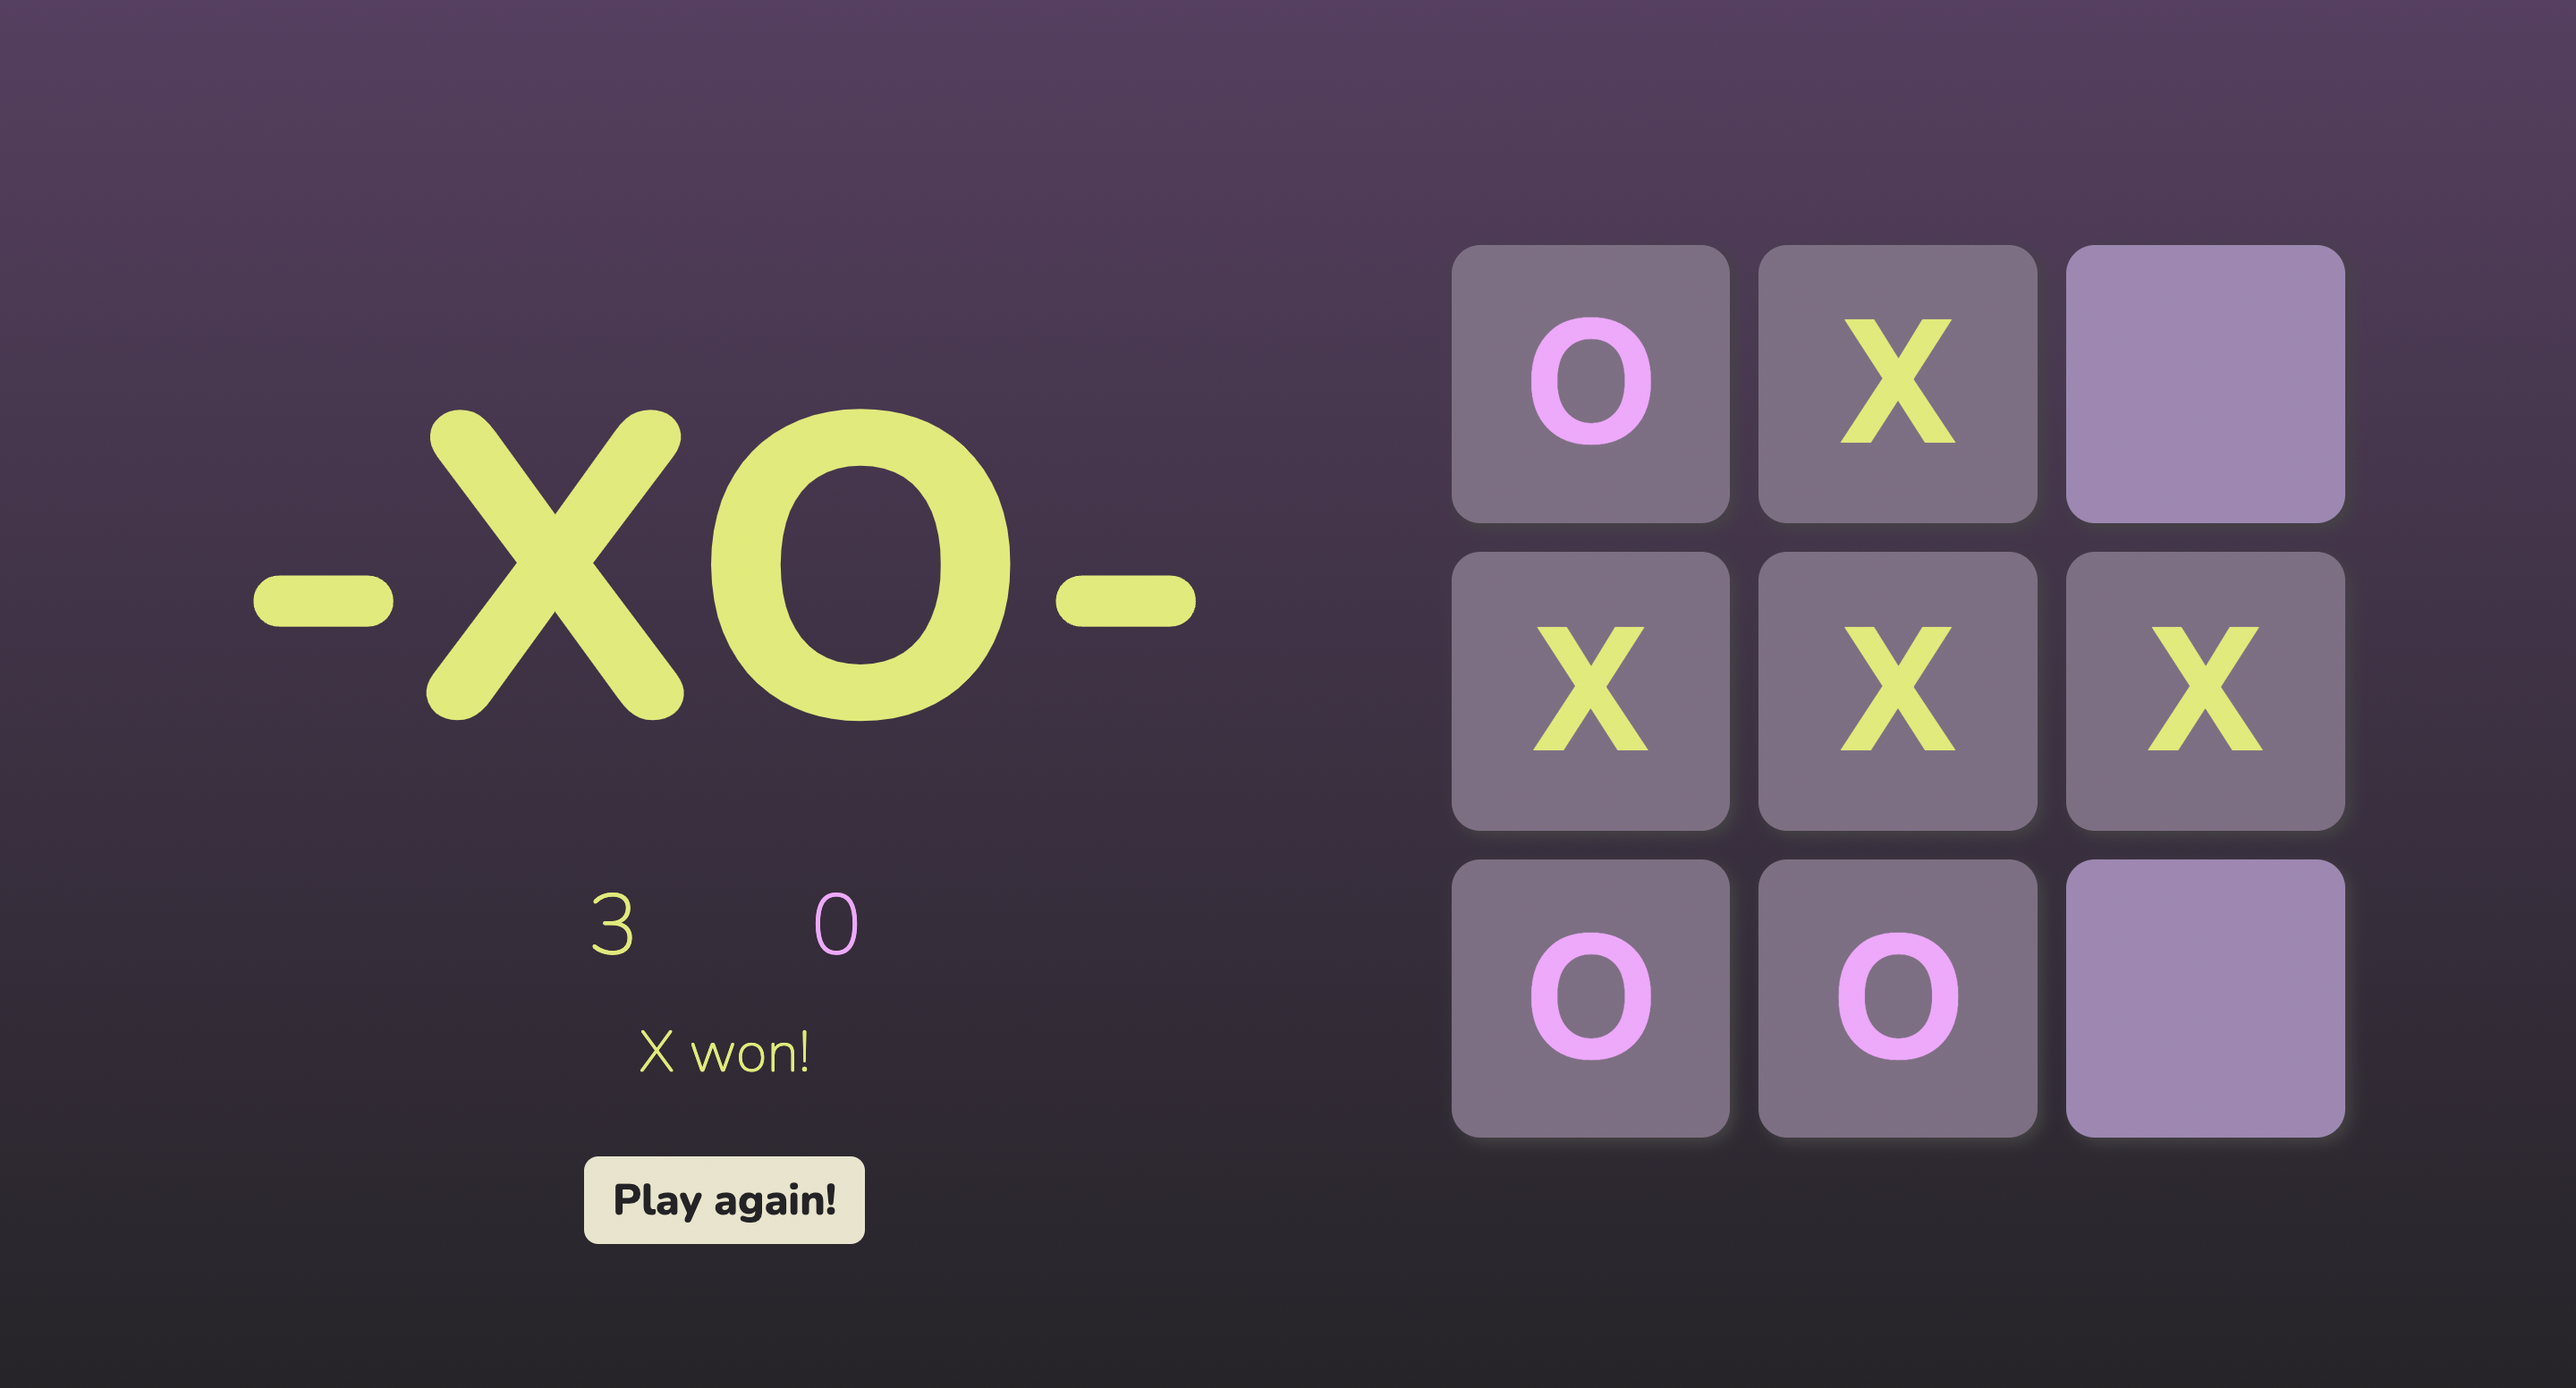
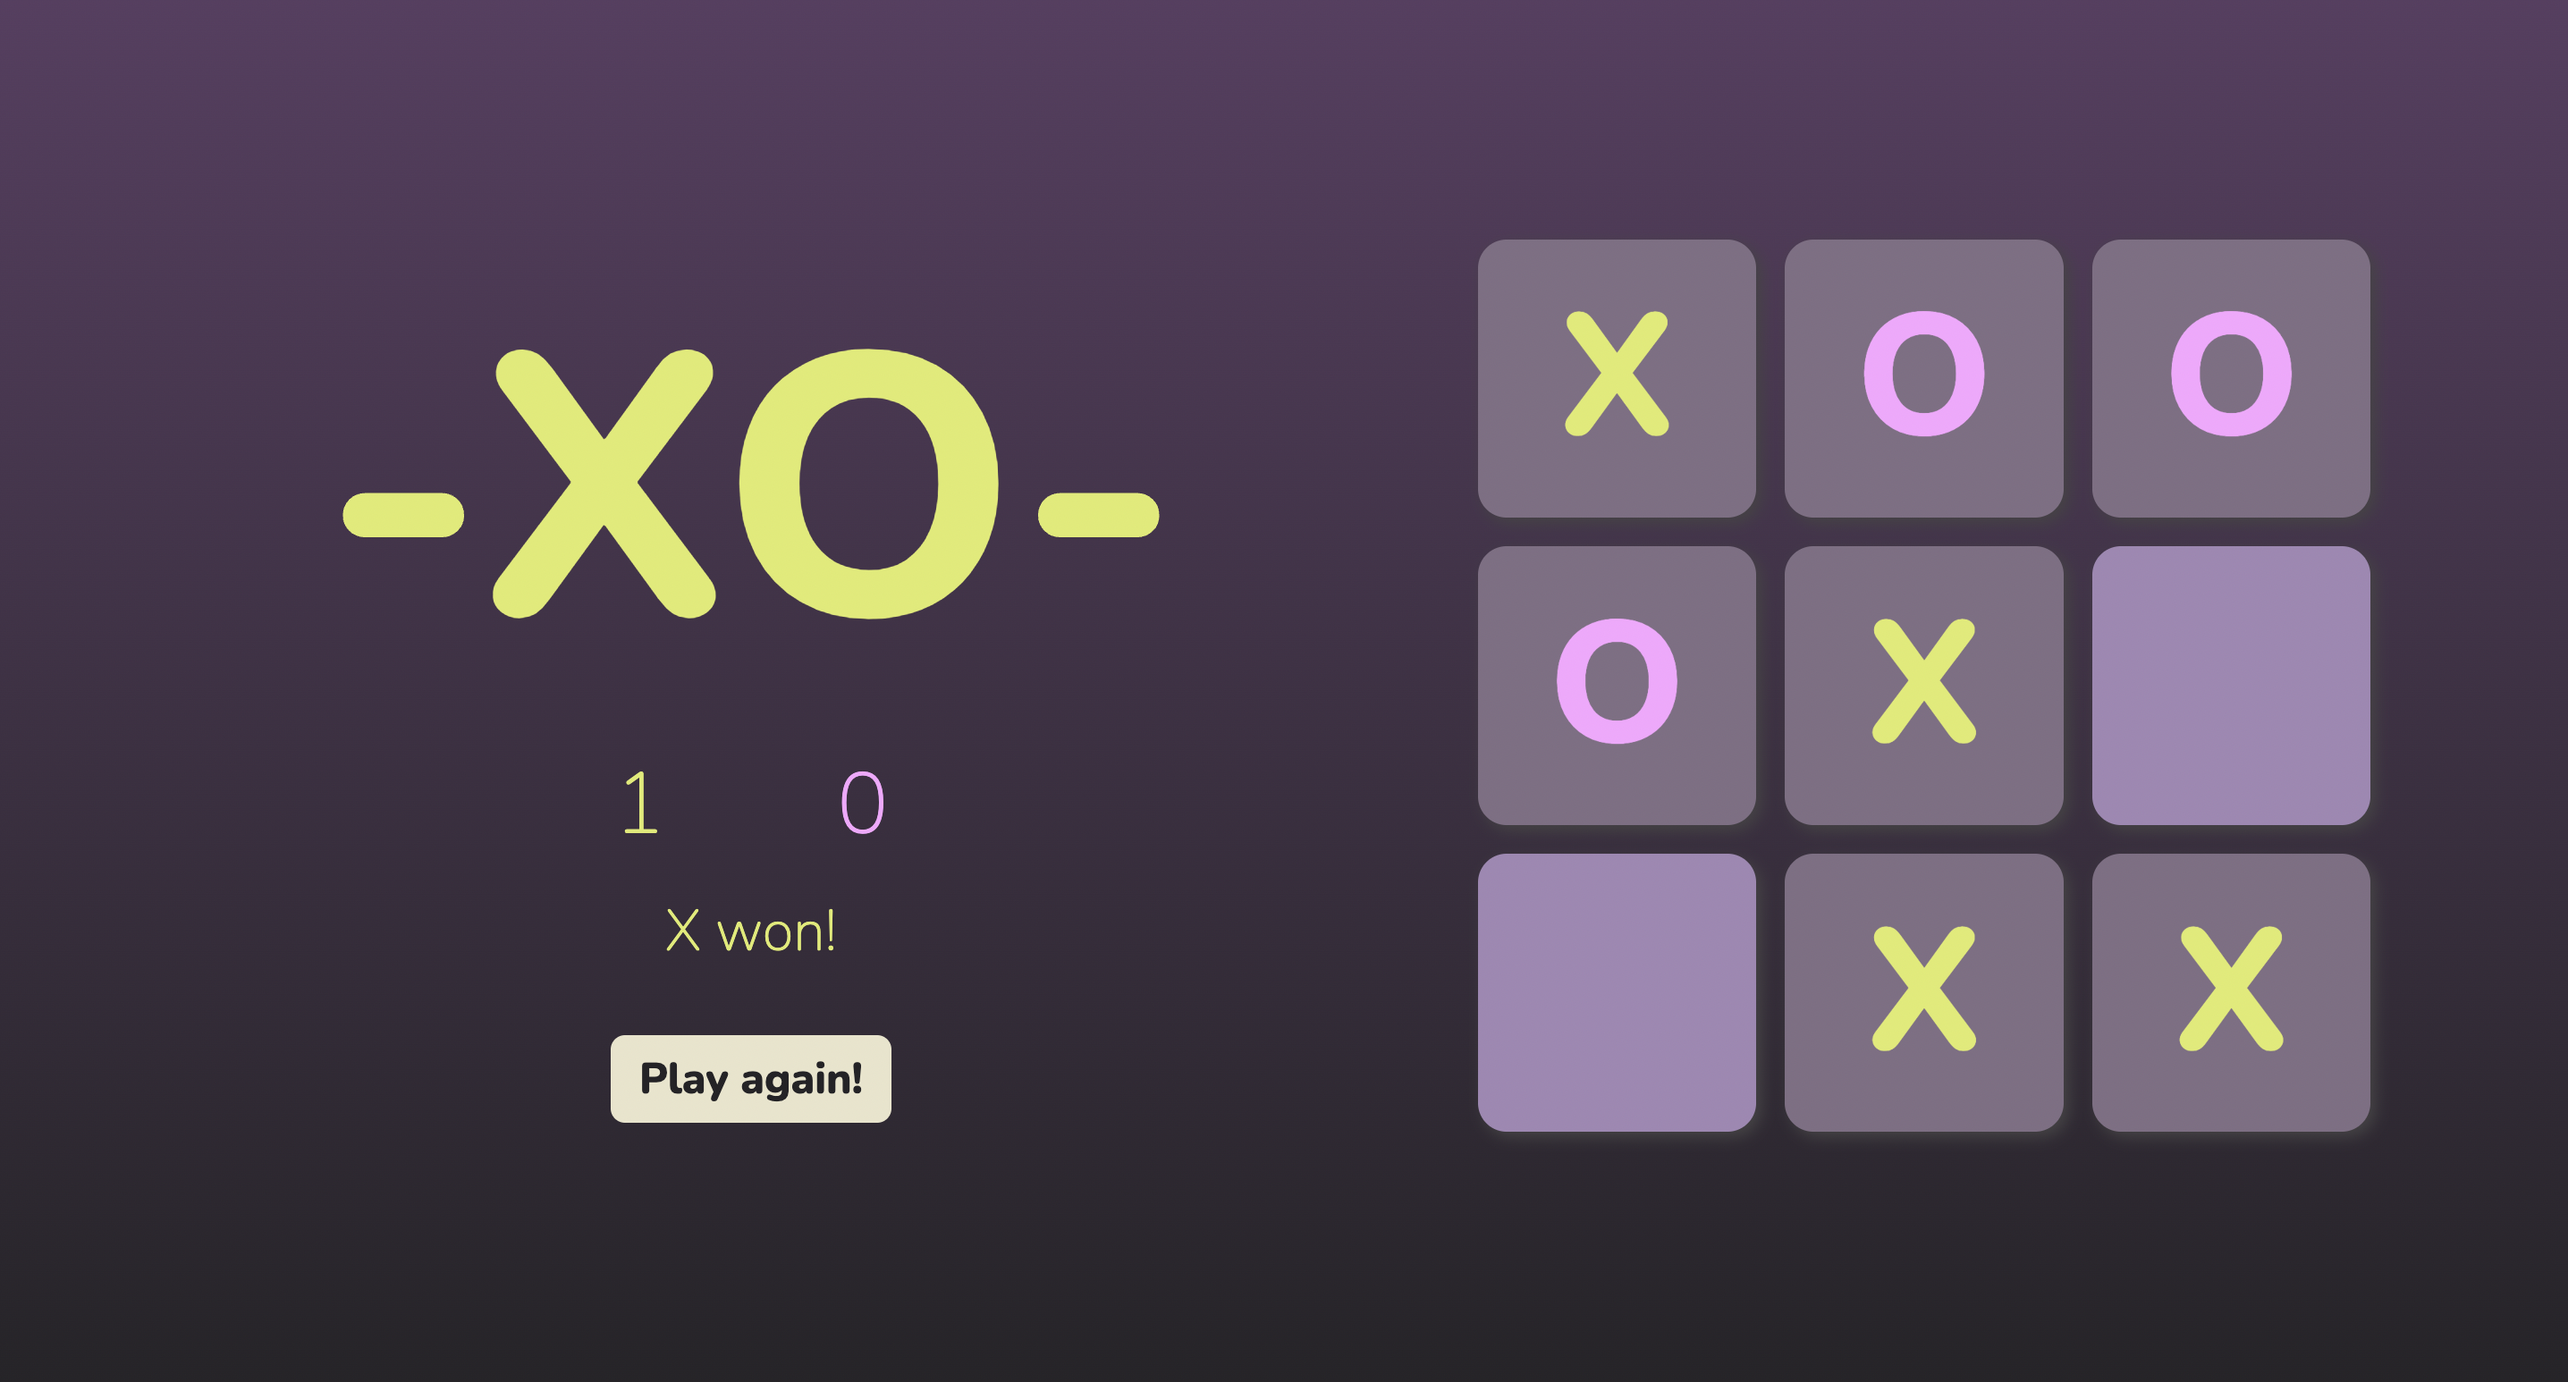
centered left panel

diff --git a/8_tictactoe/styles.css b/8_tictactoe/styles.css
@@ -30,8 +30,8 @@ body {
 }
 
 .layout {
-        display: flex;
-        flex-direction: row;
+        display: grid;
+        grid-template-columns: 1fr 1fr;
         justify-content: center;
         padding-bottom: 2rem;
         background-image: linear-gradient(to top, var(--background-color1), var(--background-color2));
@@ -48,8 +48,9 @@ body {
 
 h1 {
         color: var(--main-text-color);
-        font-size: 15rem;
+        font-size: 13rem;
         margin-bottom: 0;
+        padding-bottom: 0;
 }
 
 
@@ -65,7 +66,6 @@ h1 {
         font-size: 3rem;
         margin: 0 3rem;
 }
-
 
 .message {
         min-height: 3rem;
@@ -95,7 +95,7 @@ h1 {
         color: var(--background-color1);
         border: none;
         border-radius: 0.5rem;
-        margin: 2rem 1rem 1rem 1rem;
+        margin: 2rem 1rem 0rem 1rem;
         font-family: Nunito-ExtraBold, "Helvetica", sans-sans;
 }
 
@@ -120,6 +120,7 @@ h1 {
         border: 0;
         border-radius: 1rem;
         box-shadow: 3px 3px 8px rgb(69, 67, 69);
+        font-family: Nunito-ExtraBold, "Helvetica", sans-sans;
         background-color: #a187b4;
         font-size: 6rem;
         font-weight: 800;

diff --git a/8_tictactoe/README.md b/8_tictactoe/README.md
@@ -1,3 +1,3 @@
-# Tic Tac Toe Game
+# Tic Tac Toe
 
 ![alt text](preview.png)
